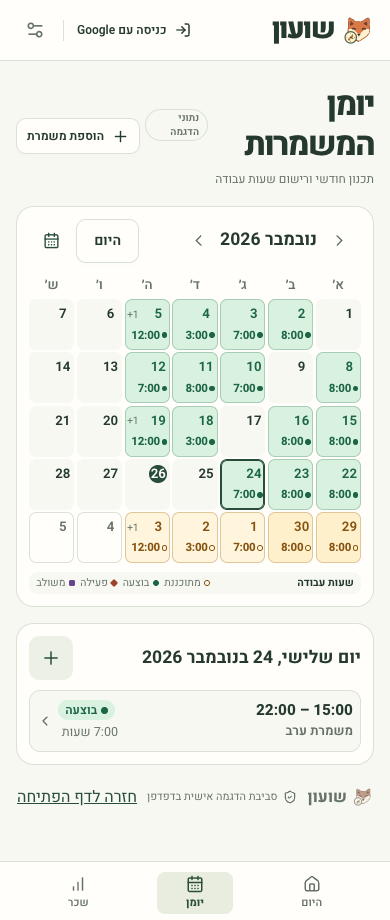
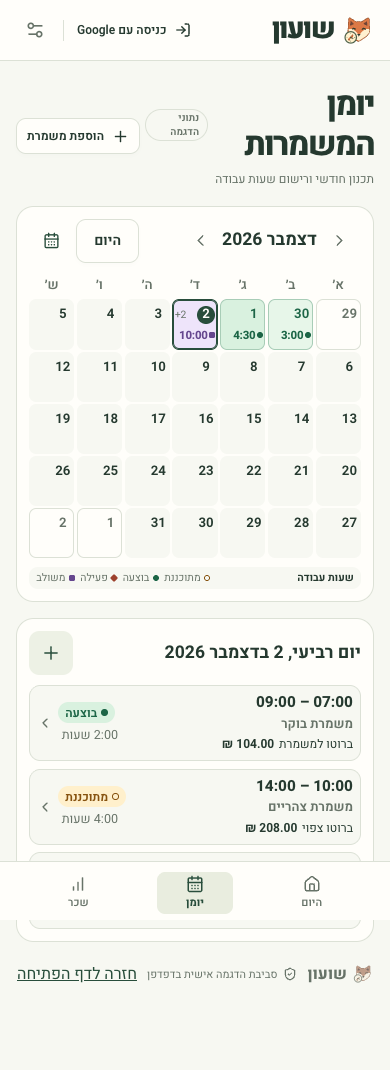
Show gross pay on individual shifts

diff --git a/src/App.tsx b/src/App.tsx
@@ -25,13 +25,15 @@ import {
   type Workspace,
 } from './data/model'
 import { subscribeWorkspace, writeQuestionnaire, writeSetting, writeShifts } from './data/repository'
-import { calculateGross, type BandKind } from './domain/gross'
+import { calculateShiftPay } from './data/shift-pay'
+import { calculateGross, type BandKind, type ShiftPay } from './domain/gross'
 import { addDays, addMonths, localDate, localTime, localToInstant } from './domain/time'
 import { estimateSalary, salaryReport } from './domain/net'
 import { Dashboard } from './components/Dashboard'
 import { SleepingFox } from './components/SleepingFox'
 import { SalaryMonthPicker } from './components/SalaryMonthPicker'
 import { TimeRange } from './components/TimeRange'
+import { ShiftGross } from './components/ShiftGross'
 import { ShiftEditor } from './components/ShiftEditor'
 import { Calendar } from './components/Calendar'
 import { Onboarding, Settings } from './components/Settings'
@@ -202,6 +204,10 @@ function WorkspaceApp({ user }: { user: User | null }) {
     [storedShifts, statusTime],
   )
   const pay = workspace?.profile.pay
+  const shiftPayById = useMemo<ReadonlyMap<string, ShiftPay>>(
+    () => (pay ? calculateShiftPay(shifts, pay) : new Map()),
+    [shifts, pay],
+  )
   const payroll = workspace?.payroll
   const adjustments = workspace?.adjustments
   const previousMonth = addMonths(today, -1).slice(0, 7)
@@ -353,19 +359,7 @@ function WorkspaceApp({ user }: { user: User | null }) {
   const picked = detail && shifts.find((s) => s.id === detail.id)
   const dialogShift = editor ? editor.initial : picked
   const dialogDate = editor?.date ?? (picked && localDate(picked.start))
-  let pickedPay = null
-  if (picked && picked.status !== 'active') {
-    try {
-      pickedPay = calculateGross(
-        shifts.filter(
-          (s) => s.status === 'completed' || (picked.status === 'planned' && s.status === 'planned'),
-        ),
-        w.profile.pay,
-      ).shifts.find((s) => s.id === picked.id)
-    } catch {
-      /* The conflicting entries remain available to edit in the planner. */
-    }
-  }
+  const pickedPay = picked ? shiftPayById.get(picked.id) : undefined
   const title =
     page === 'today'
       ? 'היום שלי'
@@ -457,6 +451,7 @@ function WorkspaceApp({ user }: { user: User | null }) {
         )}
         {page === 'today' && (
           <Dashboard
+            shiftPayById={shiftPayById}
             today={today}
             shifts={shifts}
             active={active}
@@ -478,6 +473,7 @@ function WorkspaceApp({ user }: { user: User | null }) {
         )}
         {page === 'calendar' && (
           <Calendar
+            shiftPayById={shiftPayById}
             shifts={shifts}
             date={day}
             today={today}
@@ -571,24 +567,21 @@ function WorkspaceApp({ user }: { user: User | null }) {
                     {picked.status === 'active' ? 'פעילה' : picked.status === 'completed' ? 'בוצעה' : 'מתוכננת'}
                   </span>
                 </div>
-                {pickedPay && (
-                  <>
-                    <div className="detail-pay">
-                      <span>ברוטו למשמרת</span>
-                      <strong>{formatMoney(pickedPay.gross, 2)}</strong>
-                    </div>
-                    {pickedPay.bands
-                      .filter((b) => b.hours > 0)
-                      .map((b) => (
-                        <div className="ledger-line" key={b.kind}>
-                          <span>
-                            {bandNames[b.kind]} · {hourCount(b.hours)} שעות
-                          </span>
-                          <b>{formatMoney(b.amount, 2)}</b>
-                        </div>
-                      ))}
-                  </>
+                {picked.status !== 'active' && (
+                  <div className="detail-pay">
+                    <ShiftGross status={picked.status} gross={pickedPay?.gross} />
+                  </div>
                 )}
+                {pickedPay?.bands
+                  .filter((b) => b.hours > 0)
+                  .map((b) => (
+                    <div className="ledger-line" key={b.kind}>
+                      <span>
+                        {bandNames[b.kind]} · {hourCount(b.hours)} שעות
+                      </span>
+                      <b>{formatMoney(b.amount, 2)}</b>
+                    </div>
+                  ))}
                 {picked.breaks.length > 0 && (
                   <p>
                     הפסקות:{' '}

diff --git a/src/components/Dashboard.tsx b/src/components/Dashboard.tsx
@@ -16,6 +16,8 @@ import {
   Timer,
 } from 'lucide-react'
 import { Forest } from './Forest'
+import type { ShiftPay } from '../domain/gross'
+import { ShiftGross } from './ShiftGross'
 import { TimeRange } from './TimeRange'
 import { addDays, localDate, localTime, weekday } from '../domain/time'
 import { weeklyWorkHours } from '../data/shift-hours'
@@ -24,6 +26,7 @@ import { dateLabel, formatMoney, hourCount, type WorkShift } from '../data/model
 type Props = {
   today: string
   shifts: WorkShift[]
+  shiftPayById: ReadonlyMap<string, ShiftPay>
   active?: WorkShift
   scheduled?: WorkShift
   previousMonth: string
@@ -52,7 +55,7 @@ function duration(shift: WorkShift) {
   )
   return Math.max(0, Math.floor((end - Date.parse(shift.start) - breaks) / 1000))
 }
-function Clock({ active, scheduled, busy, foxReaction, onTimer }: Pick<Props, 'foxReaction' | 'active' | 'scheduled' | 'busy' | 'onTimer'>) {
+function Clock({ active, scheduled, scheduledGross, busy, foxReaction, onTimer }: Pick<Props, 'foxReaction' | 'active' | 'scheduled' | 'busy' | 'onTimer'> & { scheduledGross?: number }) {
   const displayedShift = active ?? scheduled
   const [, refresh] = useState(0)
   useEffect(() => {
@@ -88,6 +91,7 @@ function Clock({ active, scheduled, busy, foxReaction, onTimer }: Pick<Props, 'f
           <div className="clock-scheduled">
             <strong>{scheduled.title}</strong>
             <TimeRange start={localTime(scheduled.start)} end={localTime(scheduled.end)} />
+            <ShiftGross status={scheduled.status} gross={scheduledGross} />
           </div>
         )}
         <div className="timer-actions">
@@ -180,6 +184,7 @@ function Weekly({ today, shifts, onCalendar }: Pick<Props, 'today' | 'shifts' | 
   )
 }
 export function Dashboard(p: Props) {
+  const scheduledGross = p.scheduled ? p.shiftPayById.get(p.scheduled.id)?.gross : undefined
   const upcoming = p.shifts
     .filter((s) => s.status === 'planned')
     .sort((a, b) => a.start.localeCompare(b.start))
@@ -194,7 +199,7 @@ export function Dashboard(p: Props) {
   return (
     <>
       <div className="dashboard-top">
-        <Clock foxReaction={p.foxReaction} active={p.active} scheduled={p.scheduled} busy={p.busy} onTimer={p.onTimer} />
+        <Clock foxReaction={p.foxReaction} active={p.active} scheduled={p.scheduled} scheduledGross={scheduledGross} busy={p.busy} onTimer={p.onTimer} />
         <article className="income-card">
           <div className="income-contours" aria-hidden="true" />
           <h2 className="overline">
@@ -273,6 +278,7 @@ export function Dashboard(p: Props) {
                       {dateLabel(date, { weekday: 'long' })} <i>·</i>{' '}
                       <TimeRange start={localTime(s.start)} end={localTime(s.end)} />
                     </small>
+                    <ShiftGross status={s.status} gross={p.shiftPayById.get(s.id)?.gross} />
                   </span>
                   <Icon className="shift-kind" size={17} />
                   <ChevronLeft size={15} className="row-chevron" />

diff --git a/src/components/Calendar.tsx b/src/components/Calendar.tsx
@@ -3,12 +3,15 @@ import { CalendarDays, ChevronLeft, ChevronRight, Plus } from 'lucide-react'
 import type { WorkShift } from '../data/model'
 import { formatWorkDuration, shiftWorkMillis, workMillisOnDay } from '../data/shift-hours'
 import { addDays, addMonths, dateMs, localDate, localTime, monthDays } from '../domain/time'
+import type { ShiftPay } from '../domain/gross'
+import { ShiftGross } from './ShiftGross'
 import { TimeRange } from './TimeRange'
 import { SleepingFox } from './SleepingFox'
 import './monthly-calendar.css'
 
 interface CalendarProps {
   shifts: WorkShift[]
+  shiftPayById: ReadonlyMap<string, ShiftPay>
   date: string
   today?: string
   onDate: (date: string) => void
@@ -109,6 +112,7 @@ function usePanelMotion(key: string) {
 
 export function Calendar({
   shifts,
+  shiftPayById,
   date,
   today: calendarToday,
   onDate,
@@ -342,6 +346,7 @@ export function Calendar({
                             <strong>{shift.title || 'משמרת עבודה'}</strong>
                             {crossDay && <small>חוצה חצות</small>}
                           </span>
+                          <ShiftGross status={shift.status} gross={shiftPayById.get(shift.id)?.gross} />
                         </span>
                         <span className="cal-entry-meta">
                           <span className="cal-status">

diff --git a/src/data/shift-pay.ts b/src/data/shift-pay.ts
@@ -1,0 +1,27 @@
+import { calculateGross, type PaySettings, type ShiftPay } from '../domain/gross'
+import type { WorkShift } from './model'
+
+export function calculateShiftPay(shifts: WorkShift[], pay: PaySettings): ReadonlyMap<string, ShiftPay> {
+  const completed = shifts.filter((shift) => shift.status === 'completed')
+  const planned = shifts.filter((shift) => shift.status === 'planned')
+  const byId = new Map<string, ShiftPay>()
+
+  try {
+    for (const row of calculateGross(completed, pay).shifts) byId.set(row.id, row)
+  } catch {
+    return byId
+  }
+
+  if (planned.length > 0) {
+    try {
+      const plannedIds = new Set(planned.map((shift) => shift.id))
+      for (const row of calculateGross([...completed, ...planned], pay).shifts) {
+        if (plannedIds.has(row.id)) byId.set(row.id, row)
+      }
+    } catch {
+      // Conflicts in the forecast leave completed earnings available.
+    }
+  }
+
+  return byId
+}

diff --git a/src/data/model.ts b/src/data/model.ts
@@ -81,12 +81,12 @@ export function demoWorkspace(): Workspace {
   }
   return state
 }
-export const formatMoney = (n: number, digits = 0) =>
+export const formatMoney = (n: number, digits = 0, minimumDigits = 0) =>
   new Intl.NumberFormat('he-IL', {
     style: 'currency',
     currency: 'ILS',
     maximumFractionDigits: digits,
-    minimumFractionDigits: 0,
+    minimumFractionDigits: minimumDigits,
   }).format(n)
 export const dateLabel = (date: string, options: Intl.DateTimeFormatOptions) =>
   new Intl.DateTimeFormat('he-IL', { ...options, timeZone: 'UTC' }).format(new Date(date + 'T12:00:00Z'))

diff --git a/src/style.css b/src/style.css
@@ -1067,7 +1067,32 @@ button:not(:disabled):active {
   align-items: center;
   justify-content: space-between;
 }
-.detail-pay strong {
+.shift-gross {
+  display: flex;
+  flex-wrap: wrap;
+  align-items: baseline;
+  gap: 0 0.4em;
+  color: var(--ink);
+  font-size: 0.75rem;
+}
+
+.shift-gross bdi {
+  font-weight: 700;
+  white-space: nowrap;
+}
+
+.clock-scheduled .shift-gross {
+  flex-basis: 100%;
+  color: inherit;
+}
+
+.detail-pay .shift-gross {
+  flex: 1;
+  justify-content: space-between;
+  font-size: inherit;
+}
+
+.detail-pay .shift-gross bdi {
   font-size: 25px;
 }
 .ledger-line {

diff --git a/src/components/ShiftGross.tsx b/src/components/ShiftGross.tsx
@@ -1,0 +1,12 @@
+import { formatMoney, type WorkShift } from '../data/model'
+
+export function ShiftGross({ status, gross }: { status: WorkShift['status']; gross?: number }) {
+  if (status === 'active') return null
+
+  return (
+    <span className="shift-gross">
+      <span>{status === 'planned' ? 'ברוטו צפוי' : 'ברוטו למשמרת'}</span>
+      {gross === undefined ? <span>סכום לא זמין</span> : <bdi>{formatMoney(gross, 2, 2)}</bdi>}
+    </span>
+  )
+}

diff --git a/README.md b/README.md
@@ -16,8 +16,8 @@
 
 | מסך | מה עושים בו |
 | --- | --- |
-| **היום שלי** | מתחילים ומסיימים משמרת, רושמים הפסקות ורואים גרף שעות שבועי. לצד השעון מופיעים הברוטו של החודש הקודם, אומדן הנטו שנצבר החודש והתחזית לסופו. |
-| **יומן המשמרות** | בודקים מה עבדתם ומה מתוכנן, מזינים שעות בדיעבד ומחילים אותן שעות על כמה ימים. משמרת לילה מוצגת לפי השעות שעבדתם בכל יום. |
+| **היום שלי** | מתחילים ומסיימים משמרת, רושמים הפסקות ורואים גרף שעות שבועי. לכל משמרת מתוכננת מוצג הברוטו הצפוי. לצד השעון מופיעים הברוטו של החודש הקודם, אומדן הנטו שנצבר החודש והתחזית לסופו. |
+| **יומן המשמרות** | בודקים מה עבדתם ומה מתוכנן, מזינים שעות בדיעבד ומחילים אותן שעות על כמה ימים. בכל שורה מופיע הברוטו למשמרת כולה או הברוטו הצפוי למשמרת מתוכננת. במשמרת לילה שעות העבודה מתחלקות בין הימים ביומן, והברוטו המלא מוצג בשניהם. |
 | **השכר שלי** | בוחרים חודש ומשווים בין מה שנצבר בפועל לבין התחזית הכוללת משמרות מתוכננות. הדוח מפרט ברוטו, נטו משוער, ניכויים ושעות נוספות. |
 | **הגדרות** | מעדכנים את שאלון השכר, תעריפים לפי תאריך, ימי מנוחה וחגים ותבניות משמרת. לחיצה על השעות של תבנית פותחת עריכה של שעת ההתחלה והסיום. אפשר לבחור מראה בהיר, כהה, מרווה או התאמה למכשיר. |
 
@@ -51,7 +51,7 @@
 
 שועון מחשב שכר לעבודה שעתית אצל מעסיק אחד בישראל לפי התעריף שהיה בתוקף ביום העבודה. הברוטו מביא בחשבון שעות נוספות, עבודה בלילה, שבת וחגים והפסקות ללא תשלום. אומדן הנטו משתמש בכללי 2026 ומפרט מס הכנסה, נקודות זיכוי, ביטוח לאומי ובריאות והפרשת עובד לפנסיה. אפשר לעדכן נתונים לפי התלוש, למשל ניכויים ורכיבי שכר נוספים. [הנחות החישוב, דוגמאות ומקורות](docs/payroll.md)
 
-משמרת מתוכננת מופיעה בתחזית עד שעת הסיום שלה, ואז עוברת לחישוב בפועל. אם המשמרת בוטלה, אפשר למחוק אותה מהיומן. משמרת שנרשמת בשעון הנוכחות נכנסת לחישוב ברגע שסוגרים אותה.
+משמרת מתוכננת מופיעה בתחזית עד שעת הסיום שלה, ואז עוברת לחישוב בפועל. אם המשמרת בוטלה, אפשר למחוק אותה מהיומן. משמרת שנרשמת בשעון הנוכחות נכנסת לחישוב ומציגה את הברוטו שלה אחרי הסיום והשמירה.
 
 ## נתונים וחיבור ליומן Apple
 
